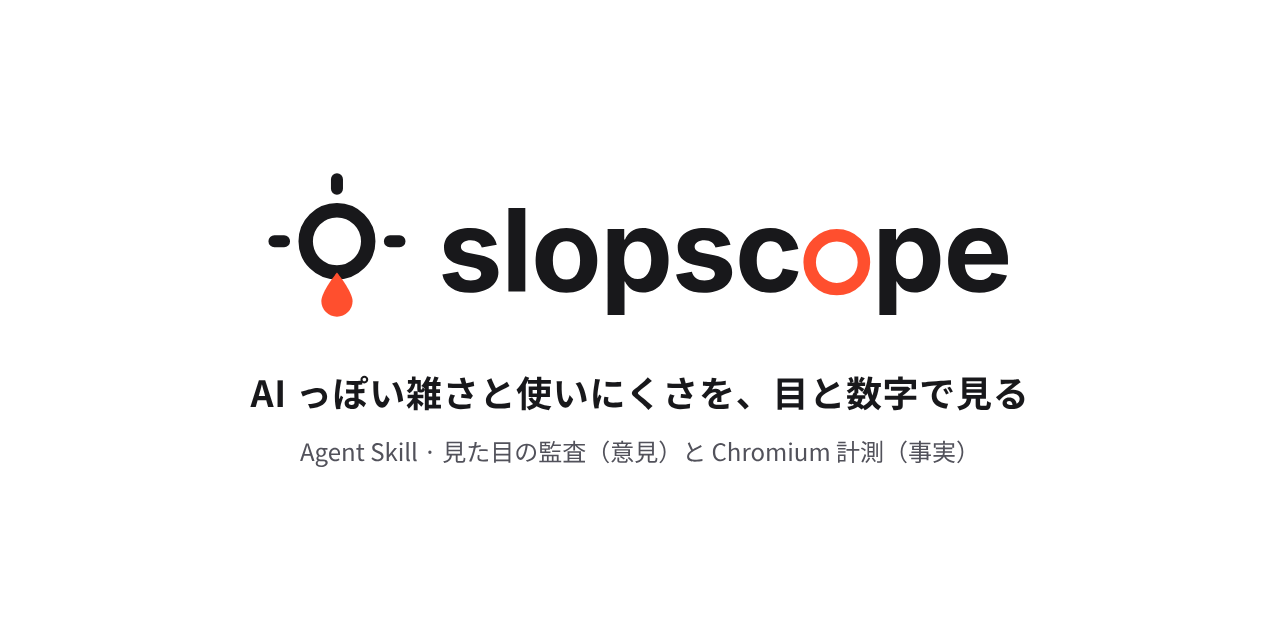
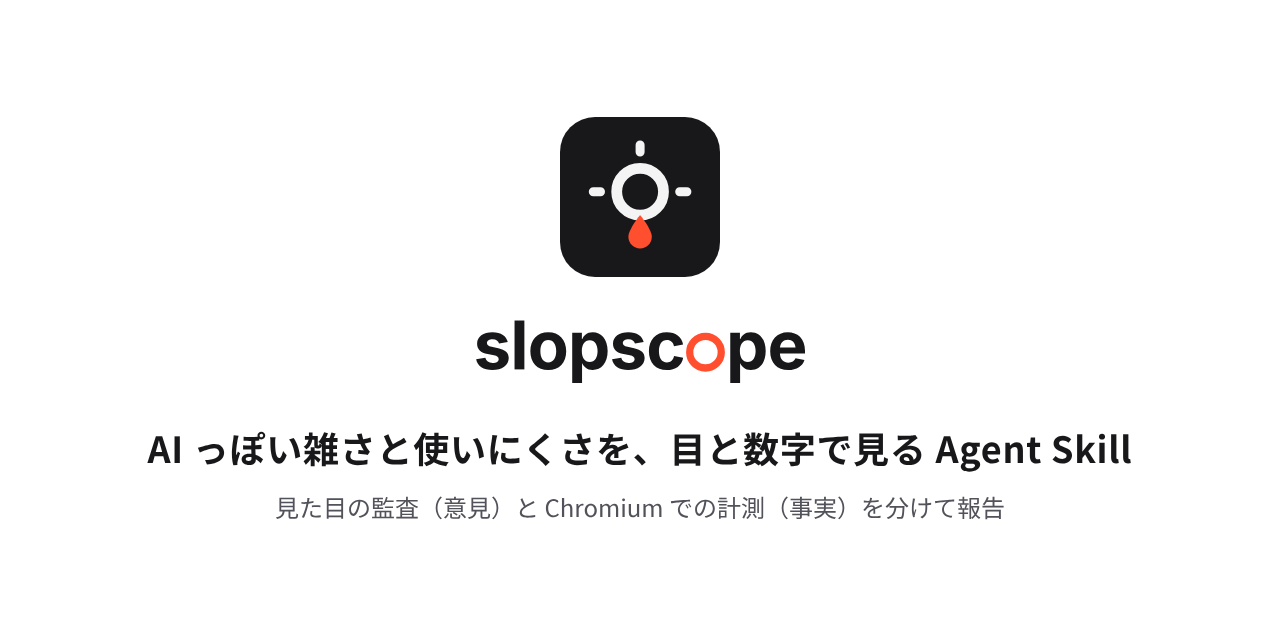
README header and social preview in the readme-hero layout
App icon, wordmark switching with the reader's color scheme, one-line
description, links, CI and license badges, and docs/images/demo.png: a real
measure.py run on the fictional examples/sloppy.html, made by
docs/images/make_demo.py so it can be regenerated. The social preview now
uses the same icon and wordmark.

Claude-Session: https://claude.ai/code/session_01Gt7kNYwcrLQiGV347m6r52

Changed region(s): [[0.0938, 0.1562, 0.9062, 0.75], [0.2188, 0.7812, 0.7812, 0.8125], [0.1875, 0.2812, 0.3125, 0.5]]

diff --git a/docs/logo/social-preview.html b/docs/logo/social-preview.html
@@ -2,11 +2,13 @@
 <style>
   body{margin:0;width:1280px;height:640px;background:#fff;display:flex;flex-direction:column;align-items:center;justify-content:center;
        font-family:"Noto Sans CJK JP",sans-serif;color:#18181B}
-  img{width:760px}
-  p{margin:40px 0 0;font-size:36px;font-weight:700;letter-spacing:.02em}
+  .icon{width:160px;margin-bottom:28px}
+  .word{height:84px}
+  p{margin:32px 0 0;font-size:36px;font-weight:700;letter-spacing:.02em}
   small{margin-top:16px;font-size:24px;color:#52525B}
 </style></head><body>
-<img src="../../assets/lockup.svg" alt="slopscope">
-<p>AI っぽい雑さと使いにくさを、目と数字で見る</p>
-<small>Agent Skill · 見た目の監査（意見）と Chromium 計測（事実）</small>
+<img class="icon" src="../../assets/app-icon.svg" alt="">
+<img class="word" src="../../assets/wordmark.svg" alt="slopscope">
+<p>AI っぽい雑さと使いにくさを、目と数字で見る Agent Skill</p>
+<small>見た目の監査（意見）と Chromium での計測（事実）を分けて報告</small>
 </body></html>

diff --git a/docs/images/make_demo.py b/docs/images/make_demo.py
@@ -1,0 +1,92 @@
+"""Make docs/images/demo.png: a real slopscope run on the fictional examples/sloppy.html.
+
+    python3 docs/images/make_demo.py
+
+Left: the page at 375px (snapshot.py). Right: what measure.py found. Needs the same
+packages as the skill (see skills/slopscope/requirements.txt); CHROMIUM_PATH works too.
+"""
+import html
+import re
+import json
+import pathlib
+import sys
+import tempfile
+
+ROOT = pathlib.Path(__file__).resolve().parents[2]
+sys.path.insert(0, str(ROOT / 'skills' / 'slopscope' / 'scripts'))
+import measure  # noqa: E402
+import snapshot  # noqa: E402
+from playwright.sync_api import sync_playwright  # noqa: E402
+from slopscope_page import launch  # noqa: E402
+
+LABELS = {  # short Japanese names for the checks
+    'M-01': '文字のコントラスト', 'M-02': '選んだときの枠', 'M-03': '枠の欠け', 'M-04': '横のはみ出し',
+    'M-05': 'iPhone の拡大', 'M-06': '名前のない部品', 'M-07': '押す大きさ', 'M-08': '動きを減らす設定',
+}
+
+
+def value(check):
+    f = check['findings'][0]
+    if 'value' in f:
+        return f"{f['value']}（基準 {f['needs']}）"
+    if 'clipped_by' in f:
+        return '親に切られている'
+    if 'pixels_changed' in f:
+        return '選んでも何も変わらない'
+    if 'overflow_px' in f:
+        return f"+{f['overflow_px']}px"
+    if 'font_px' in f:
+        return f"{f['font_px']:g}px（16px 未満）"
+    if 'size' in f:
+        return f"{f['size'][0]}×{f['size'][1]}px"
+    if 'role' in f:
+        return f"{f['role']} に名前がない"
+    return f.get('name', '')
+
+
+def short(selector):
+    """The last two steps of a selector, without :nth-of-type, to fit one line."""
+    return ' > '.join(re.sub(r':nth-of-type\(\d+\)', '', part) for part in selector.split(' > ')[-2:])
+
+
+def main():
+    sample = ROOT / 'examples' / 'sloppy.html'
+    with tempfile.TemporaryDirectory() as tmp:
+        shots, _ = snapshot.snapshot(str(sample), pathlib.Path(tmp), (375,), ('light',), parts=False)
+        data = measure.measure(str(sample), (375,), ('light',))
+        rows = ''.join(
+            f'<tr><td class="id">{c["id"]}</td><td>{LABELS[c["id"]]}</td>'
+            f'<td class="v">{html.escape(value(c))}</td><td class="sel">{html.escape(short(c["findings"][0]["selector"]))}</td></tr>'
+            for c in data['checks'] if c['status'] == 'fail')
+        page = f'''<!doctype html><html lang="ja"><head><meta charset="utf-8"><title>slopscope demo</title><style>
+  body{{margin:0;width:1280px;height:720px;background:#F4F4F5;font-family:"Noto Sans CJK JP",sans-serif;color:#18181B;
+       display:grid;grid-template-columns:420px minmax(0,1fr);gap:40px;padding:48px;box-sizing:border-box}}
+  h2{{margin:0 0 16px;font-size:22px}} h2 span{{font-weight:400;color:#52525B;font-size:16px;margin-left:8px}}
+  .phone{{background:#fff;border:1px solid #D4D4D8;border-radius:24px;overflow:hidden;height:560px}}
+  .phone img{{width:100%;display:block}}
+  .panel{{background:#18181B;color:#F4F4F5;border-radius:16px;padding:28px 32px;font-size:17px}}
+  .cmd{{font-family:"DejaVu Sans Mono",monospace;font-size:15px;color:#A1A1AA;margin-bottom:18px}}
+  table{{border-collapse:collapse;width:100%}} td{{padding:10px 8px;border-top:1px solid #3F3F46;white-space:nowrap}}
+  .id{{font-family:"DejaVu Sans Mono",monospace;color:#FF7A5C;font-weight:700;width:64px}}
+  .v{{font-weight:700}} .sel{{font-family:"DejaVu Sans Mono",monospace;font-size:13px;color:#A1A1AA;white-space:normal}}
+  .note{{margin-top:16px;color:#A1A1AA;font-size:15px}}
+</style></head><body>
+  <div><h2>見た目<span>架空の見本ページ・幅 375px</span></h2><div class="phone"><img src="{shots[0].as_uri()}" alt=""></div></div>
+  <div><h2>計測<span>Chromium で開いて数字で見る</span></h2><div class="panel">
+    <div class="cmd">$ python3 scripts/measure.py examples/sloppy.html</div>
+    <table>{rows}</table>
+    <div class="note">8 項目すべて不合格。直したあとは compare.py で前後を比べる。</div></div></div>
+</body></html>'''
+        doc = pathlib.Path(tmp, 'demo.html'); doc.write_text(page)
+        out = ROOT / 'docs' / 'images' / 'demo.png'
+        with sync_playwright() as p:
+            browser = launch(p)
+            pg = browser.new_page(viewport={'width': 1280, 'height': 720}, device_scale_factor=1.5)
+            pg.goto(doc.as_uri()); pg.wait_for_timeout(300)
+            pg.screenshot(path=str(out))
+            browser.close()
+    print('wrote', out)
+
+
+if __name__ == '__main__':
+    main()

diff --git a/docs/logo/make.py b/docs/logo/make.py
@@ -81,3 +81,9 @@ if ASSETS:
         (ASSETS / f'wordmark{suffix}.svg').write_text(svg(f'0 0 {width:.0f} 60', body, 'slopscope'))
         lock = f'{reticle(ink, acc)}<g transform="translate(70 4)">{body}</g>'
         (ASSETS / f'lockup{suffix}.svg').write_text(svg(f'0 0 {70 + width:.0f} 64', lock, 'slopscope'))
+
+# App icon: the mark in light ink on a dark rounded square, readable on any page color.
+if ASSETS:
+    icon = ('<rect width="64" height="64" rx="14" fill="#18181B"/>'
+            f'<g transform="translate(9 9) scale(0.72)">{reticle(INK_D, ACC)}</g>')
+    (ASSETS / 'app-icon.svg').write_text(svg('0 0 64 64', icon, 'slopscope app icon'))

diff --git a/README.md b/README.md
@@ -1,15 +1,29 @@
+<p align="center"><img src="assets/app-icon.svg" width="128" alt="slopscope app icon"></p>
+
 <p align="center">
   <picture>
-    <source media="(prefers-color-scheme: dark)" srcset="assets/lockup-dark.svg">
-    <img src="assets/lockup.svg" alt="slopscope" width="360">
+    <source media="(prefers-color-scheme: dark)" srcset="assets/wordmark-dark.svg">
+    <img src="assets/wordmark.svg" height="48" alt="slopscope">
   </picture>
 </p>
 
-# slopscope
+<p align="center"><b>AI っぽい雑さと使いにくさを、目と数字で見る Agent Skill</b><br>
+見た目の監査（意見）と Chromium での計測（事実）を分けて報告し、直す前と後も比べます。<br>
+<i>An Agent Skill that audits a web page for AI-looking "slop" (opinion) and measurable usability problems (fact).</i></p>
 
-AI が作ったっぽい「雑さ（slop）」と、数字で測れる使いにくさを、2 段で監査する Agent Skill です。直す前と後も比べます。
+<p align="center">
+  <a href="#入れ方"><b>入れ方</b></a> ·
+  <a href="#使い方">使い方</a> ·
+  <a href="skills/slopscope/references/measurements.md">計測の中身</a> ·
+  <a href="docs/DESIGN.md">設計書</a>
+</p>
 
-*An Agent Skill that audits a web page for AI-looking "slop" (opinion) and measurable usability problems (fact), then compares before and after a fix.*
+<p align="center">
+  <a href="https://github.com/kajisho5/slopscope/actions/workflows/ci.yml"><img alt="tests" src="https://github.com/kajisho5/slopscope/actions/workflows/ci.yml/badge.svg"></a>
+  <a href="LICENSE"><img alt="License: MIT" src="https://img.shields.io/badge/license-MIT-blue.svg"></a>
+</p>
+
+![架空の見本ページ（左）と、slopscope の計測結果（右）。8 項目すべてが不合格になっている](docs/images/demo.png)
 
 ## できること
 

diff --git a/docs/logo/README.md b/docs/logo/README.md
@@ -4,12 +4,15 @@
 
 | ファイル | 使う場所 |
 |---|---|
-| `logo.svg` / `logo-dark.svg` | マークだけ（アイコン、小さい場所） |
+| `app-icon.svg` | 角丸の四角に入れたアイコン（README の一番上、明るい背景でも暗い背景でも使える） |
+| `logo.svg` / `logo-dark.svg` | マークだけ（小さい場所） |
 | `wordmark.svg` / `wordmark-dark.svg` | 名前だけ |
-| `lockup.svg` / `lockup-dark.svg` | マークと名前を並べたもの（README の一番上） |
+| `lockup.svg` / `lockup-dark.svg` | マークと名前を横に並べたもの |
 | `social-preview.png` | リンクを共有したときに出る画像（1280×640） |
 
 `-dark` は暗い背景用です。
+
+README の画面の画像 `docs/images/demo.png` は、`python3 docs/images/make_demo.py` で撮り直せます（架空の見本ページを実際に測った結果）。共有用の画像は `docs/logo/social-preview.html` をブラウザで 1280×640 で撮ったものです。
 
 ## 形の意味
 
